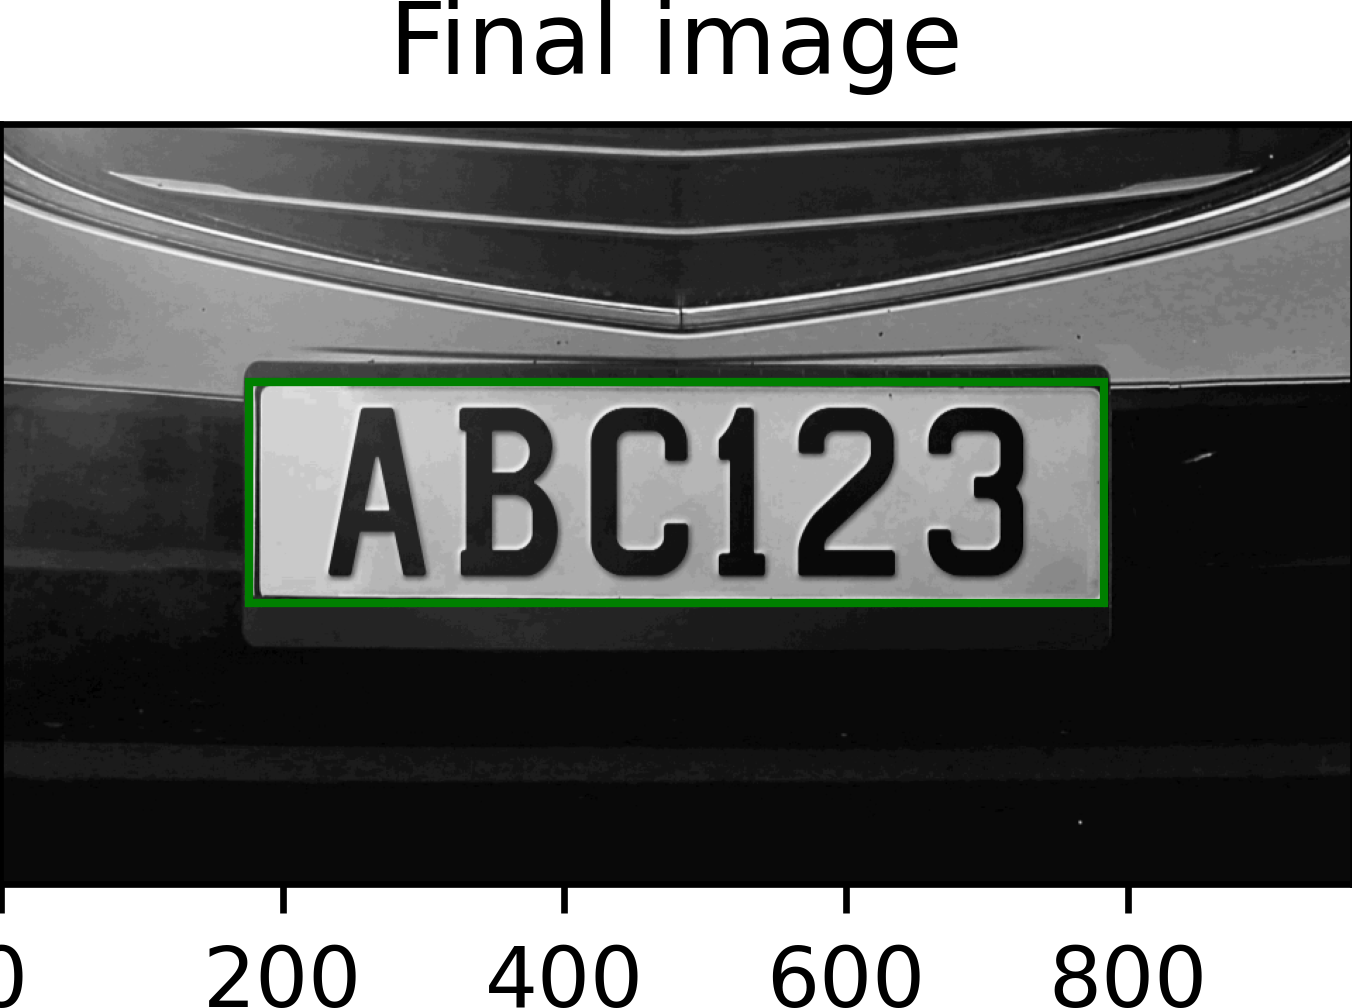
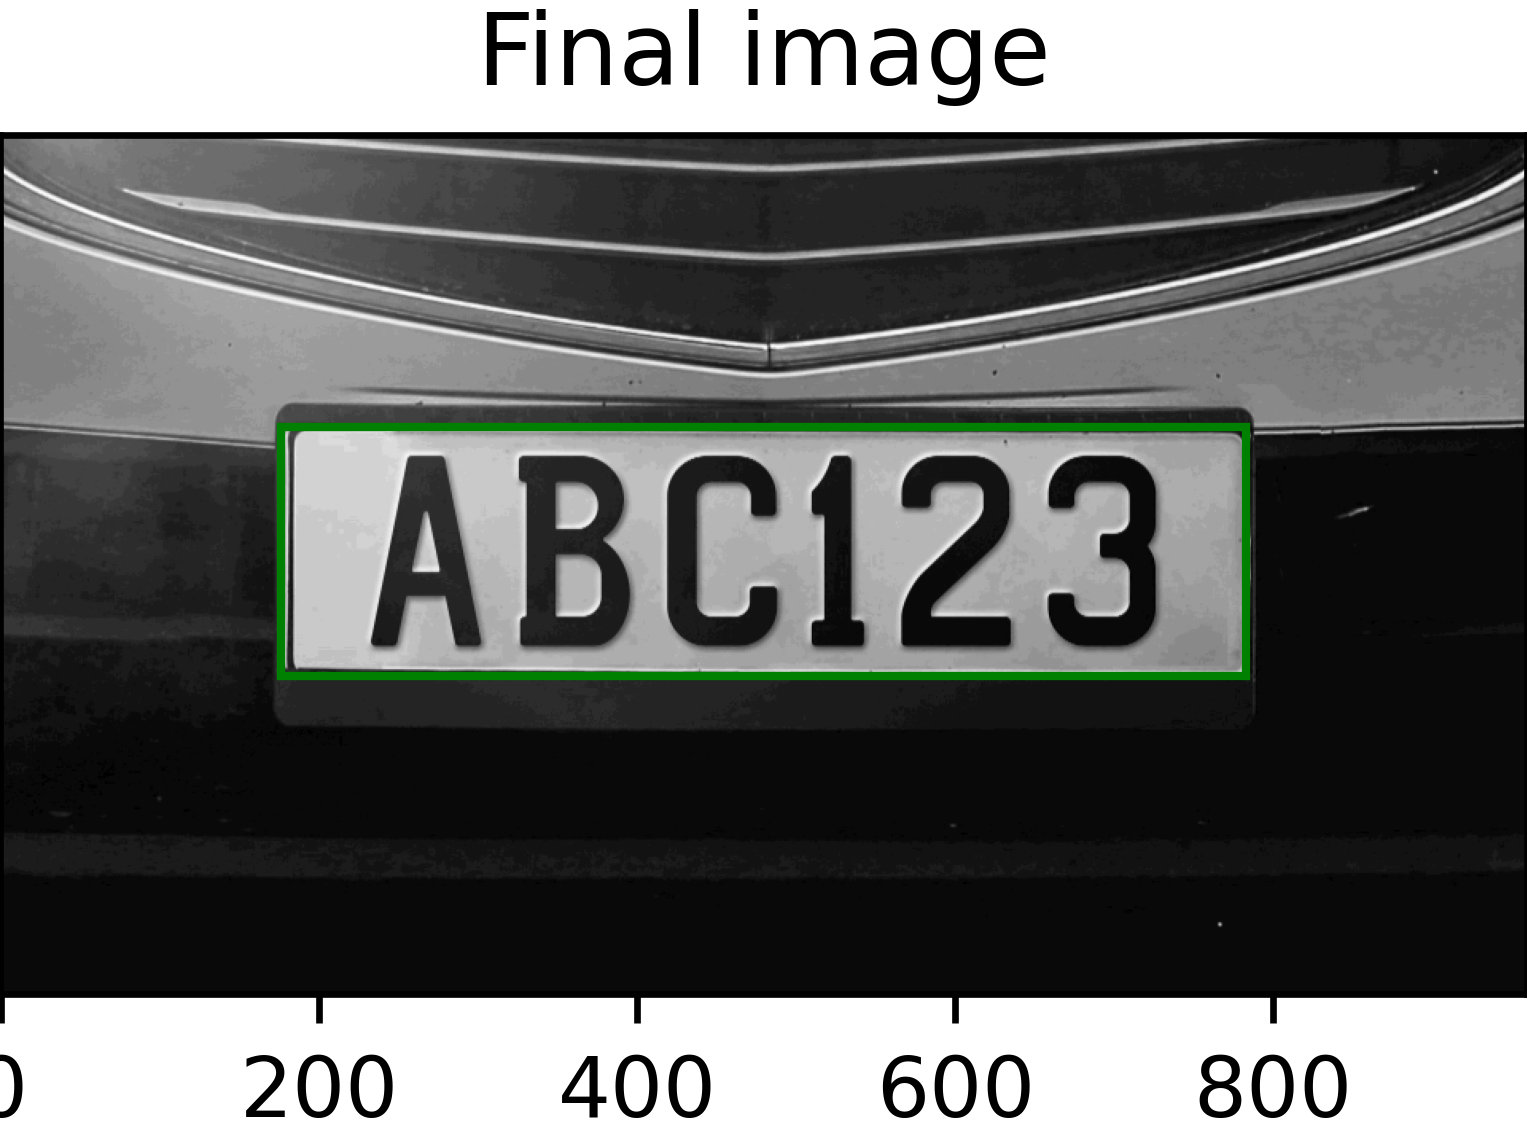
working w/2 figures

diff --git a/CS373LicensePlateDetection.py b/CS373LicensePlateDetection.py
@@ -233,7 +233,7 @@ def main():
     SHOW_DEBUG_FIGURES = True
 
     # this is the default input image filename
-    input_filename = "numberplate1.png"
+    input_filename = "numberplate3.png"
 
     if command_line_arguments:
         input_filename = command_line_arguments[0]
@@ -404,7 +404,9 @@ def main():
 
     for x, obj2 in enumerate(ocr_dict.keys()):
         match = ocr_dict[obj2]["match"]
-        pyplot.text(0, 70 + (offset * x), f"Detected: \"{obj2}\", Confidence: {match:.2%}")
+        # axs2[1].text(0.5, 0.01, f"Detected: \"{obj2}\", Confidence: {match:.2%}")
+        axs2[1].annotate(f"Detected: \"{obj2}\", Confidence: {match:.2%}", (0, 0), (0, -40 - (offset * x)), xycoords='axes fraction',
+                         textcoords='offset points', va='top')
 
     fig2.tight_layout()
 
